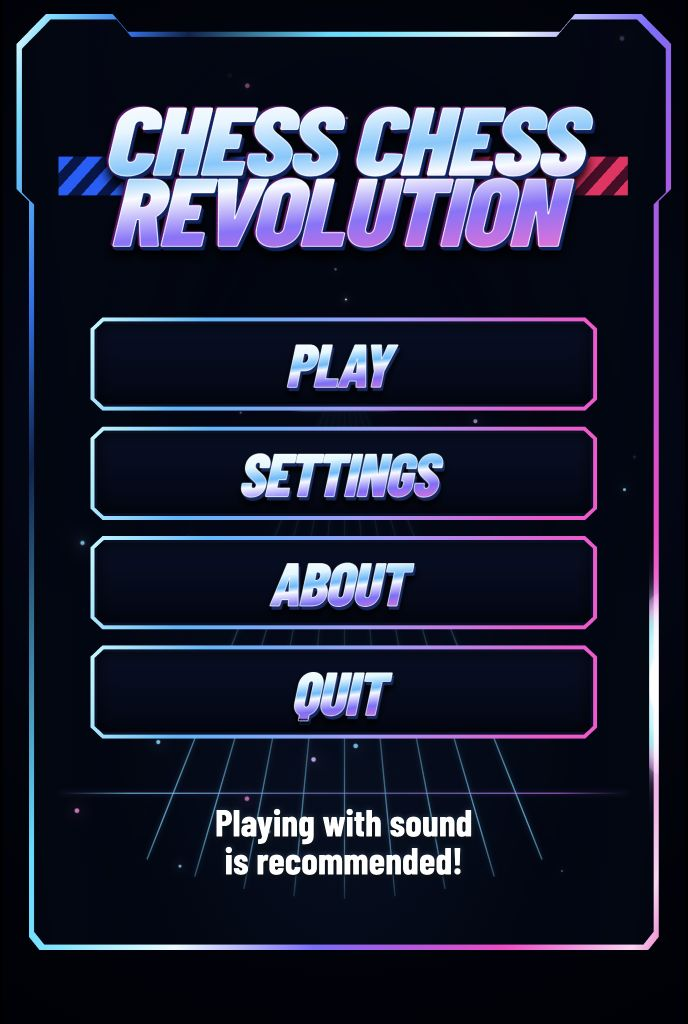
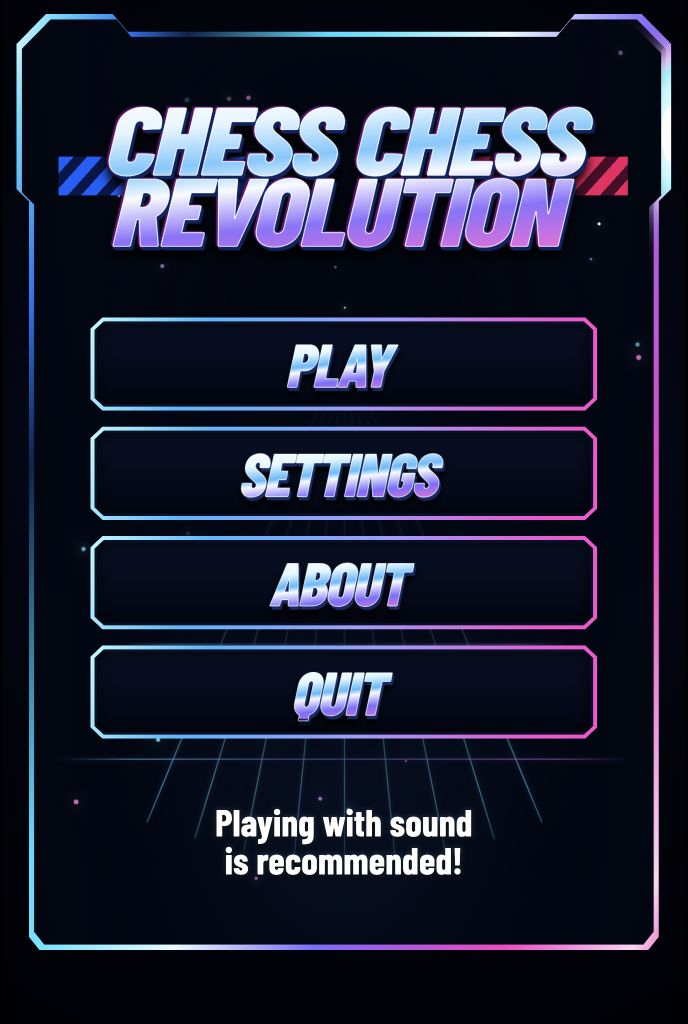
fix(frame): restore pulse stacking context

diff --git a/app/components/ArcadeFramePulse.tsx b/app/components/ArcadeFramePulse.tsx
@@ -18,61 +18,69 @@ export function ArcadeFramePulse() {
   return (
     <div
       aria-hidden="true"
-      data-frame-pulse
       style={{
         position: "absolute",
         zIndex: 1,
-        top: frameOuterInset,
-        right: frameOuterInset,
-        bottom: frameOuterBottom,
-        left: frameOuterInset,
-        overflow: "hidden",
-        clipPath: framePulseClip,
-        opacity: reduceMotion ? 0.28 : 1,
-        mixBlendMode: "screen",
+        inset: 0,
         pointerEvents: "none",
-        ...(hasSettingsReturnCutout
-          ? {
-              ...settingsReturnCutout,
-              WebkitMaskImage: settingsReturnCutout.maskImage,
-              WebkitMaskPosition: settingsReturnCutout.maskPosition,
-              WebkitMaskRepeat: settingsReturnCutout.maskRepeat,
-              WebkitMaskSize: settingsReturnCutout.maskSize,
-            }
-          : undefined),
       }}
     >
-      <style>{`
-        @keyframes arcade-border-comet-lap {
-          0% { left: 0%; top: 0%; transform: translate(-50%, -50%) rotate(0deg); }
-          24% { left: 100%; top: 0%; transform: translate(-50%, -50%) rotate(0deg); }
-          25% { left: 98.1%; top: 0%; transform: translate(-50%, -50%) rotate(90deg); }
-          49% { left: 98.1%; top: 100%; transform: translate(-50%, -50%) rotate(90deg); }
-          50% { left: 100%; top: 100%; transform: translate(-50%, -50%) rotate(180deg); }
-          74% { left: 0%; top: 100%; transform: translate(-50%, -50%) rotate(180deg); }
-          75% { left: 1.9%; top: 100%; transform: translate(-50%, -50%) rotate(270deg); }
-          99% { left: 1.9%; top: 0%; transform: translate(-50%, -50%) rotate(270deg); }
-          100% { left: 0%; top: 0%; transform: translate(-50%, -50%) rotate(360deg); }
-        }
-        @media (prefers-reduced-motion: reduce) {
-          [data-frame-pulse] { opacity: .28 !important; }
-          [data-border-beam] { animation: none !important; }
-        }
-      `}</style>
-      <PulseBeam
-        width={270}
-        height={76}
-        background="radial-gradient(ellipse, rgba(255,255,255,.95) 0 7%, rgba(69,225,255,.92) 24%, rgba(48,138,255,.6) 49%, rgba(255,61,205,.34) 68%, transparent 78%)"
-        filter="brightness(2) drop-shadow(0 0 11px rgba(255,255,255,.95)) drop-shadow(0 0 25px rgba(71,211,255,1)) drop-shadow(0 0 34px rgba(255,71,207,.92))"
-        reduceMotion={reduceMotion}
-      />
-      <PulseBeam
-        width={86}
-        height={30}
-        background="radial-gradient(ellipse, #fff 0 20%, #bdf5ff 42%, #ffb5ec 64%, transparent 76%)"
-        filter="brightness(2.8) drop-shadow(0 0 7px #fff) drop-shadow(0 0 15px #77e6ff)"
-        reduceMotion={reduceMotion}
-      />
+      <div
+        data-frame-pulse
+        style={{
+          position: "absolute",
+          zIndex: 4,
+          top: frameOuterInset,
+          right: frameOuterInset,
+          bottom: frameOuterBottom,
+          left: frameOuterInset,
+          overflow: "hidden",
+          clipPath: framePulseClip,
+          opacity: reduceMotion ? 0.28 : 1,
+          mixBlendMode: "screen",
+          ...(hasSettingsReturnCutout
+            ? {
+                ...settingsReturnCutout,
+                WebkitMaskImage: settingsReturnCutout.maskImage,
+                WebkitMaskPosition: settingsReturnCutout.maskPosition,
+                WebkitMaskRepeat: settingsReturnCutout.maskRepeat,
+                WebkitMaskSize: settingsReturnCutout.maskSize,
+              }
+            : undefined),
+        }}
+      >
+        <style>{`
+          @keyframes arcade-border-comet-lap {
+            0% { left: 0%; top: 0%; transform: translate(-50%, -50%) rotate(0deg); }
+            24% { left: 100%; top: 0%; transform: translate(-50%, -50%) rotate(0deg); }
+            25% { left: 100%; top: 0%; transform: translate(-50%, -50%) rotate(90deg); }
+            49% { left: 100%; top: 100%; transform: translate(-50%, -50%) rotate(90deg); }
+            50% { left: 100%; top: 100%; transform: translate(-50%, -50%) rotate(180deg); }
+            74% { left: 0%; top: 100%; transform: translate(-50%, -50%) rotate(180deg); }
+            75% { left: 0%; top: 100%; transform: translate(-50%, -50%) rotate(270deg); }
+            99% { left: 0%; top: 0%; transform: translate(-50%, -50%) rotate(270deg); }
+            100% { left: 0%; top: 0%; transform: translate(-50%, -50%) rotate(360deg); }
+          }
+          @media (prefers-reduced-motion: reduce) {
+            [data-frame-pulse] { opacity: .28 !important; }
+            [data-border-beam] { animation: none !important; }
+          }
+        `}</style>
+        <PulseBeam
+          width={270}
+          height={76}
+          background="radial-gradient(ellipse, rgba(255,255,255,.95) 0 7%, rgba(69,225,255,.92) 24%, rgba(48,138,255,.6) 49%, rgba(255,61,205,.34) 68%, transparent 78%)"
+          filter="brightness(2) drop-shadow(0 0 11px rgba(255,255,255,.95)) drop-shadow(0 0 25px rgba(71,211,255,1)) drop-shadow(0 0 34px rgba(255,71,207,.92))"
+          reduceMotion={reduceMotion}
+        />
+        <PulseBeam
+          width={86}
+          height={30}
+          background="radial-gradient(ellipse, #fff 0 20%, #bdf5ff 42%, #ffb5ec 64%, transparent 76%)"
+          filter="brightness(2.8) drop-shadow(0 0 7px #fff) drop-shadow(0 0 15px #77e6ff)"
+          reduceMotion={reduceMotion}
+        />
+      </div>
     </div>
   );
 }
